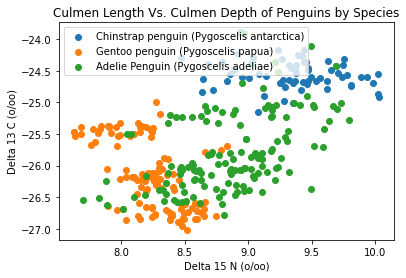
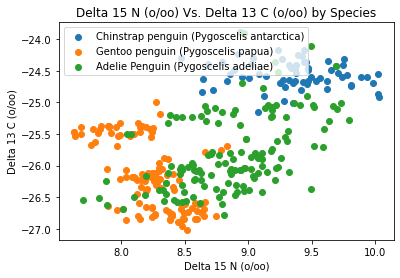
a

diff --git a/_posts/2021-10-06-Blog-0.md b/_posts/2021-10-06-Blog-0.md
@@ -1,0 +1,371 @@
+# Creating Visualizations #
+
+Begin by importing the pandas library and the matplotlib.pyplot library.
+
+
+```python
+import pandas as pd
+import matplotlib.pyplot as plt
+```
+
+### Download the Data 
+The first step in creating data visualizations is to load the data. We will first store the url as a string, and then we will read and store the csv file in a database named penguins.
+
+
+```python
+url = "https://raw.githubusercontent.com/PhilChodrow/PIC16B/master/datasets/palmer_penguins.csv"
+penguins = pd.read_csv(url)
+```
+
+Now, let's take a look at our database by calling it. Be sure to explore the different rows and columns of this dataset.
+
+
+```python
+penguins
+```
+
+
+
+
+<div>
+<style scoped>
+    .dataframe tbody tr th:only-of-type {
+        vertical-align: middle;
+    }
+
+    .dataframe tbody tr th {
+        vertical-align: top;
+    }
+
+    .dataframe thead th {
+        text-align: right;
+    }
+</style>
+<table border="1" class="dataframe">
+  <thead>
+    <tr style="text-align: right;">
+      <th></th>
+      <th>studyName</th>
+      <th>Sample Number</th>
+      <th>Species</th>
+      <th>Region</th>
+      <th>Island</th>
+      <th>Stage</th>
+      <th>Individual ID</th>
+      <th>Clutch Completion</th>
+      <th>Date Egg</th>
+      <th>Culmen Length (mm)</th>
+      <th>Culmen Depth (mm)</th>
+      <th>Flipper Length (mm)</th>
+      <th>Body Mass (g)</th>
+      <th>Sex</th>
+      <th>Delta 15 N (o/oo)</th>
+      <th>Delta 13 C (o/oo)</th>
+      <th>Comments</th>
+    </tr>
+  </thead>
+  <tbody>
+    <tr>
+      <th>0</th>
+      <td>PAL0708</td>
+      <td>1</td>
+      <td>Adelie Penguin (Pygoscelis adeliae)</td>
+      <td>Anvers</td>
+      <td>Torgersen</td>
+      <td>Adult, 1 Egg Stage</td>
+      <td>N1A1</td>
+      <td>Yes</td>
+      <td>11/11/07</td>
+      <td>39.1</td>
+      <td>18.7</td>
+      <td>181.0</td>
+      <td>3750.0</td>
+      <td>MALE</td>
+      <td>NaN</td>
+      <td>NaN</td>
+      <td>Not enough blood for isotopes.</td>
+    </tr>
+    <tr>
+      <th>1</th>
+      <td>PAL0708</td>
+      <td>2</td>
+      <td>Adelie Penguin (Pygoscelis adeliae)</td>
+      <td>Anvers</td>
+      <td>Torgersen</td>
+      <td>Adult, 1 Egg Stage</td>
+      <td>N1A2</td>
+      <td>Yes</td>
+      <td>11/11/07</td>
+      <td>39.5</td>
+      <td>17.4</td>
+      <td>186.0</td>
+      <td>3800.0</td>
+      <td>FEMALE</td>
+      <td>8.94956</td>
+      <td>-24.69454</td>
+      <td>NaN</td>
+    </tr>
+    <tr>
+      <th>2</th>
+      <td>PAL0708</td>
+      <td>3</td>
+      <td>Adelie Penguin (Pygoscelis adeliae)</td>
+      <td>Anvers</td>
+      <td>Torgersen</td>
+      <td>Adult, 1 Egg Stage</td>
+      <td>N2A1</td>
+      <td>Yes</td>
+      <td>11/16/07</td>
+      <td>40.3</td>
+      <td>18.0</td>
+      <td>195.0</td>
+      <td>3250.0</td>
+      <td>FEMALE</td>
+      <td>8.36821</td>
+      <td>-25.33302</td>
+      <td>NaN</td>
+    </tr>
+    <tr>
+      <th>3</th>
+      <td>PAL0708</td>
+      <td>4</td>
+      <td>Adelie Penguin (Pygoscelis adeliae)</td>
+      <td>Anvers</td>
+      <td>Torgersen</td>
+      <td>Adult, 1 Egg Stage</td>
+      <td>N2A2</td>
+      <td>Yes</td>
+      <td>11/16/07</td>
+      <td>NaN</td>
+      <td>NaN</td>
+      <td>NaN</td>
+      <td>NaN</td>
+      <td>NaN</td>
+      <td>NaN</td>
+      <td>NaN</td>
+      <td>Adult not sampled.</td>
+    </tr>
+    <tr>
+      <th>4</th>
+      <td>PAL0708</td>
+      <td>5</td>
+      <td>Adelie Penguin (Pygoscelis adeliae)</td>
+      <td>Anvers</td>
+      <td>Torgersen</td>
+      <td>Adult, 1 Egg Stage</td>
+      <td>N3A1</td>
+      <td>Yes</td>
+      <td>11/16/07</td>
+      <td>36.7</td>
+      <td>19.3</td>
+      <td>193.0</td>
+      <td>3450.0</td>
+      <td>FEMALE</td>
+      <td>8.76651</td>
+      <td>-25.32426</td>
+      <td>NaN</td>
+    </tr>
+    <tr>
+      <th>...</th>
+      <td>...</td>
+      <td>...</td>
+      <td>...</td>
+      <td>...</td>
+      <td>...</td>
+      <td>...</td>
+      <td>...</td>
+      <td>...</td>
+      <td>...</td>
+      <td>...</td>
+      <td>...</td>
+      <td>...</td>
+      <td>...</td>
+      <td>...</td>
+      <td>...</td>
+      <td>...</td>
+      <td>...</td>
+    </tr>
+    <tr>
+      <th>339</th>
+      <td>PAL0910</td>
+      <td>120</td>
+      <td>Gentoo penguin (Pygoscelis papua)</td>
+      <td>Anvers</td>
+      <td>Biscoe</td>
+      <td>Adult, 1 Egg Stage</td>
+      <td>N38A2</td>
+      <td>No</td>
+      <td>12/1/09</td>
+      <td>NaN</td>
+      <td>NaN</td>
+      <td>NaN</td>
+      <td>NaN</td>
+      <td>NaN</td>
+      <td>NaN</td>
+      <td>NaN</td>
+      <td>NaN</td>
+    </tr>
+    <tr>
+      <th>340</th>
+      <td>PAL0910</td>
+      <td>121</td>
+      <td>Gentoo penguin (Pygoscelis papua)</td>
+      <td>Anvers</td>
+      <td>Biscoe</td>
+      <td>Adult, 1 Egg Stage</td>
+      <td>N39A1</td>
+      <td>Yes</td>
+      <td>11/22/09</td>
+      <td>46.8</td>
+      <td>14.3</td>
+      <td>215.0</td>
+      <td>4850.0</td>
+      <td>FEMALE</td>
+      <td>8.41151</td>
+      <td>-26.13832</td>
+      <td>NaN</td>
+    </tr>
+    <tr>
+      <th>341</th>
+      <td>PAL0910</td>
+      <td>122</td>
+      <td>Gentoo penguin (Pygoscelis papua)</td>
+      <td>Anvers</td>
+      <td>Biscoe</td>
+      <td>Adult, 1 Egg Stage</td>
+      <td>N39A2</td>
+      <td>Yes</td>
+      <td>11/22/09</td>
+      <td>50.4</td>
+      <td>15.7</td>
+      <td>222.0</td>
+      <td>5750.0</td>
+      <td>MALE</td>
+      <td>8.30166</td>
+      <td>-26.04117</td>
+      <td>NaN</td>
+    </tr>
+    <tr>
+      <th>342</th>
+      <td>PAL0910</td>
+      <td>123</td>
+      <td>Gentoo penguin (Pygoscelis papua)</td>
+      <td>Anvers</td>
+      <td>Biscoe</td>
+      <td>Adult, 1 Egg Stage</td>
+      <td>N43A1</td>
+      <td>Yes</td>
+      <td>11/22/09</td>
+      <td>45.2</td>
+      <td>14.8</td>
+      <td>212.0</td>
+      <td>5200.0</td>
+      <td>FEMALE</td>
+      <td>8.24246</td>
+      <td>-26.11969</td>
+      <td>NaN</td>
+    </tr>
+    <tr>
+      <th>343</th>
+      <td>PAL0910</td>
+      <td>124</td>
+      <td>Gentoo penguin (Pygoscelis papua)</td>
+      <td>Anvers</td>
+      <td>Biscoe</td>
+      <td>Adult, 1 Egg Stage</td>
+      <td>N43A2</td>
+      <td>Yes</td>
+      <td>11/22/09</td>
+      <td>49.9</td>
+      <td>16.1</td>
+      <td>213.0</td>
+      <td>5400.0</td>
+      <td>MALE</td>
+      <td>8.36390</td>
+      <td>-26.15531</td>
+      <td>NaN</td>
+    </tr>
+  </tbody>
+</table>
+<p>344 rows × 17 columns</p>
+</div>
+
+
+
+I am fascinated by the Delta 15 N and Delta 13 C columns which store numerical values converying the carbon and nitrogen isotopes in the bodies of the penguins. Let's build a visualization to see if Delta 15 N and Delta 13 C values vary by species.
+
+### Creating the Plot
+First, we will create the plot.
+
+
+```python
+fig, ax = plt.subplots(1)
+```
+
+
+![output_8_0.png](/images/output_8_0.png)    
+    
+
+
+Then, we will create a set of the distinct species using the set() method.
+
+
+```python
+species = set(penguins["Species"])
+```
+
+Using a for loop we will iterate thru each penguin specie and create a Delta 15 N vs. Delta 13 C scatterplot. 
+
+
+```python
+#creates a plot
+fig, ax = plt.subplots(1) 
+
+#creates set of distinct species
+species = set(penguins["Species"]) 
+
+#plot points by species
+for specie in species: 
+    penguin = penguins[penguins["Species"] == specie]
+    ax.scatter(penguin["Delta 15 N (o/oo)"],
+            penguin["Delta 13 C (o/oo)"],
+               label = specie)
+```
+
+
+    
+![output_12_0.png](/images/output_12_0.png) 
+    
+
+
+We will then label our axis and title our visualization. To show the legend, we will use the ax.legend() method.
+
+
+```python
+fig, ax = plt.subplots(1)
+
+for specie in species:
+    penguin = penguins[penguins["Species"] == specie]
+    ax.scatter(penguin["Delta 15 N (o/oo)"],
+            penguin["Delta 13 C (o/oo)"],
+               label = specie)
+
+#adds labels to the visualization
+ax.set(xlabel = "Delta 15 N (o/oo)",
+      ylabel = "Delta 13 C (o/oo)",
+      title = "Delta 15 N (o/oo) Vs. Delta 13 C (o/oo) by Species")
+
+ax.legend()
+plt.savefig("image-penguin.png")
+```
+
+
+    
+![output_14_0.png](/images/output_14_0.png) 
+    
+
+
+
+```python
+
+```
